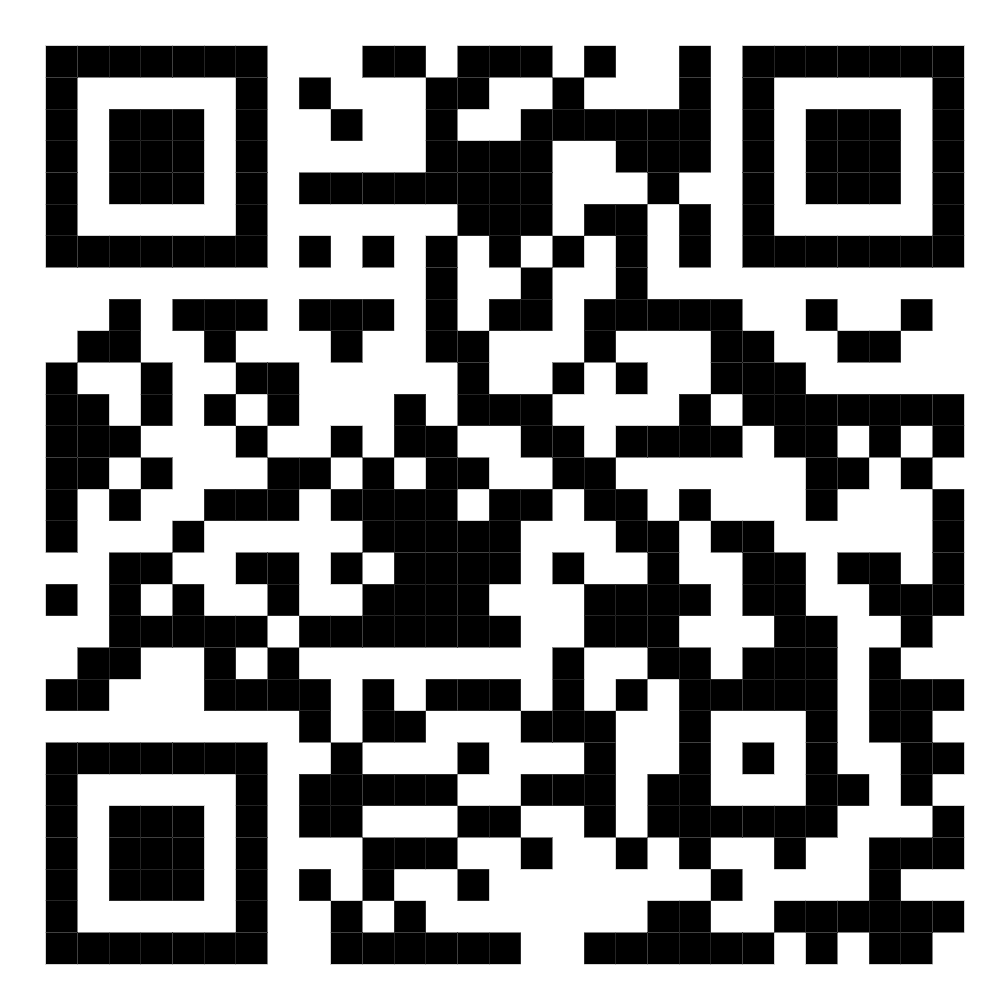
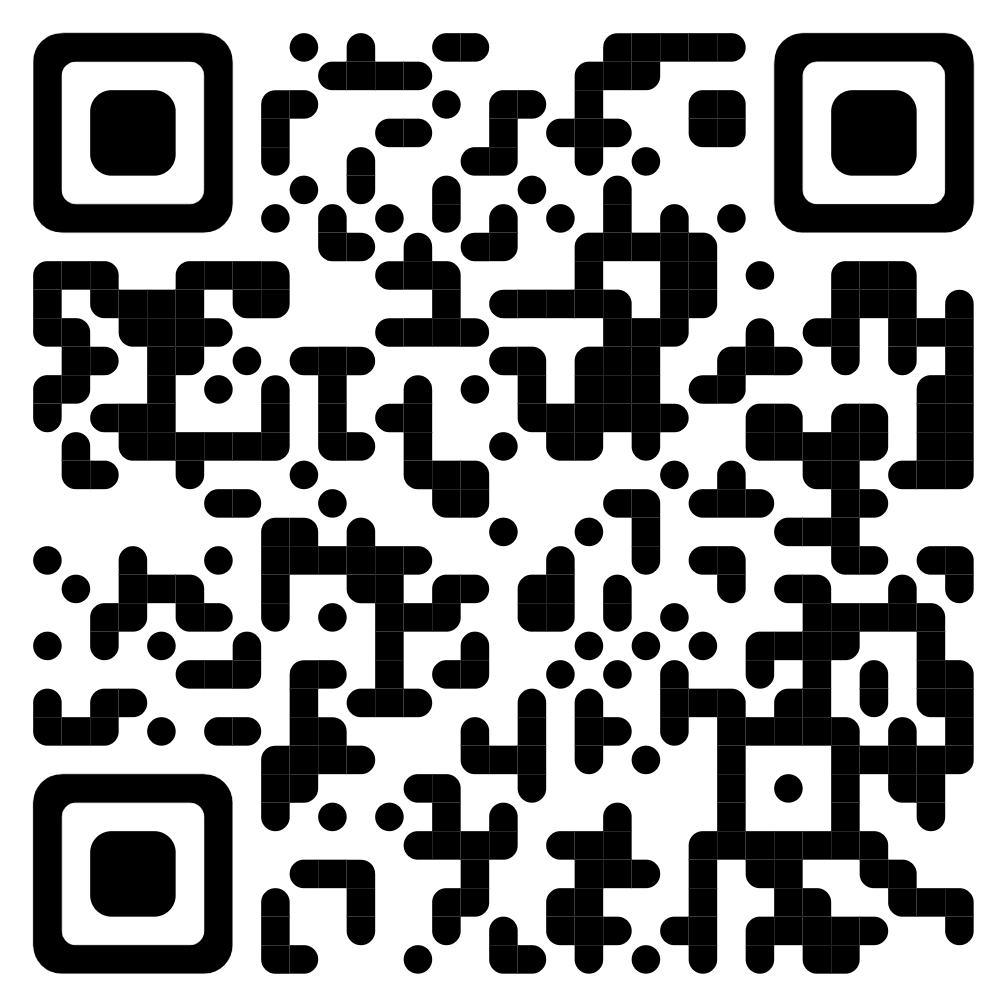
QR Code Updated

diff --git a/api/app-redirect.js b/api/app-redirect.js
@@ -1,6 +1,6 @@
 module.exports = (req, res) => {
   const userAgent = req.headers["user-agent"] || "";
-  const host = req.headers.host || "sunnah-way-app.vercel.app";
+  const host = req.headers.host || "sunnah-way-web.vercel.app";
   const protocol = req.headers["x-forwarded-proto"] || "https";
   const websiteUrl = `${protocol}://${host}`;
 
